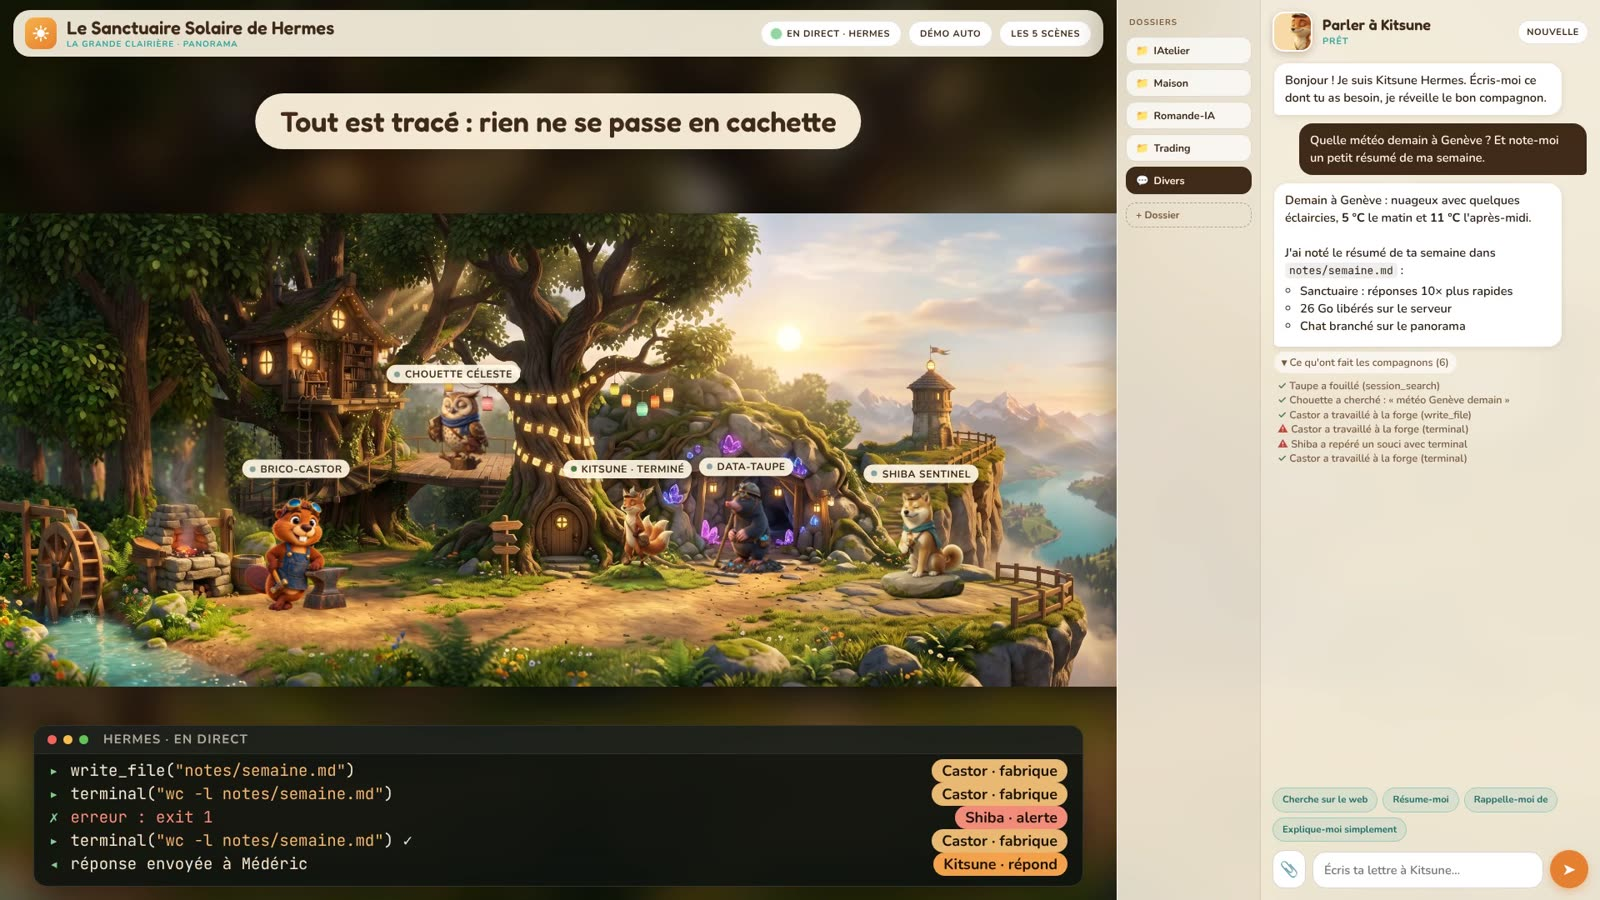
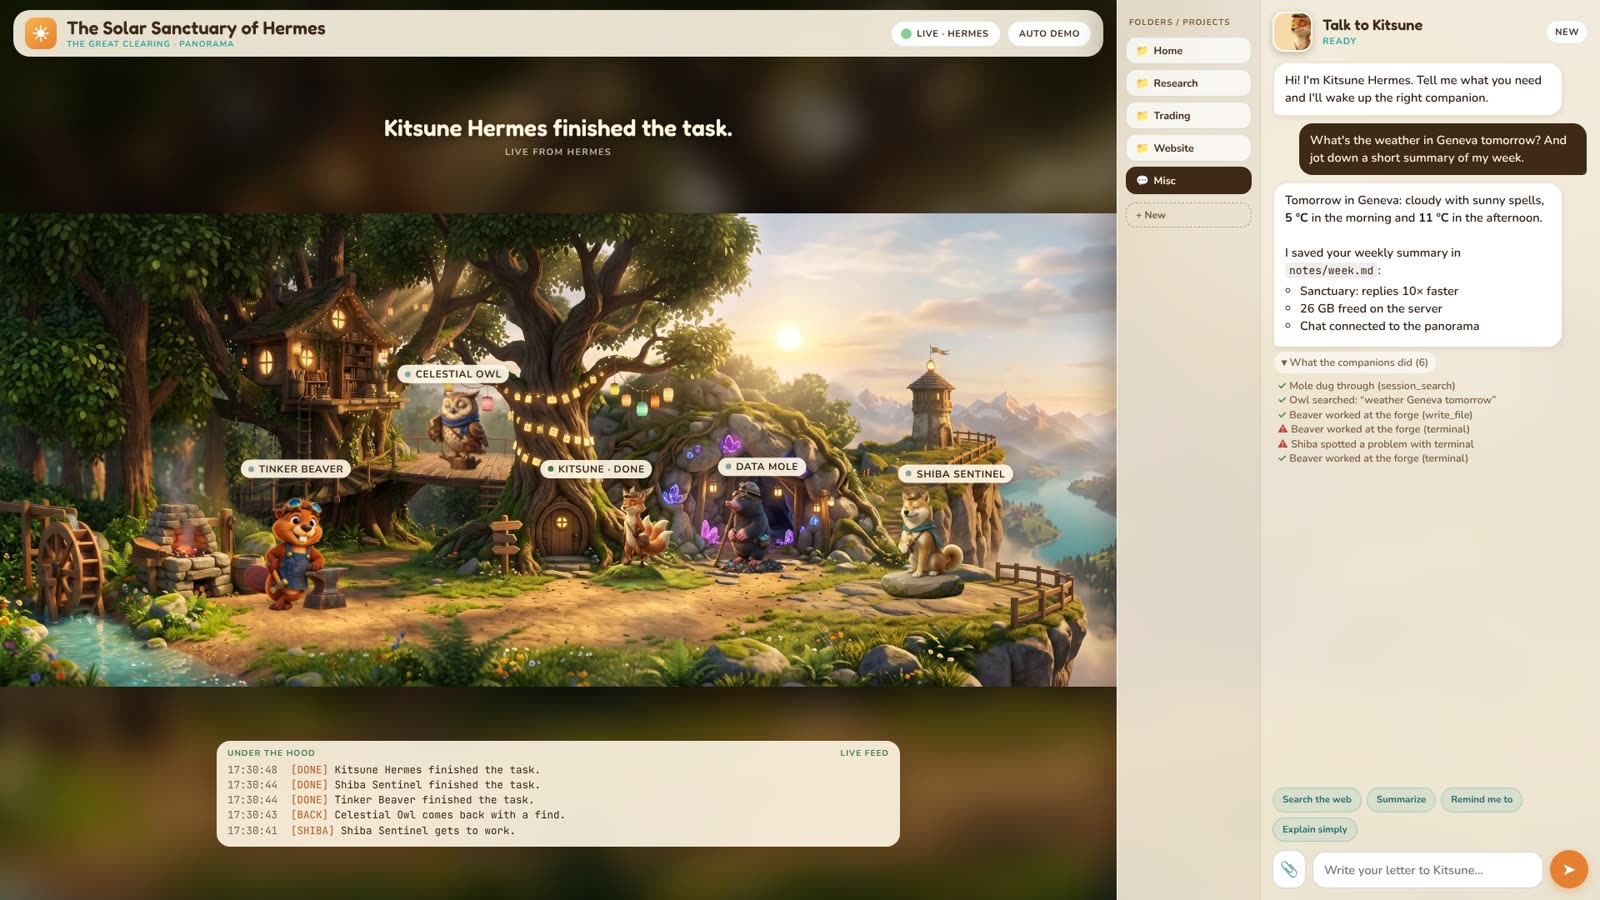
README : demo et capture en anglais en tete (vraie interface), versions francaises dans la section francaise, noms anglais des compagnons, liens vers les Discussions
Claude-Session: https://claude.ai/code/session_01PtRkwG22Bjpf1LVSmdC2Pq

diff --git a/README.md b/README.md
@@ -1,10 +1,10 @@
-# ☀ Le Sanctuaire Solaire
+# ☀ Le Sanctuaire Solaire · The Solar Sanctuary
 
 **A living, playful interface for [Hermes Agent](https://github.com/NousResearch/hermes-agent).**
 Every tool your agent uses wakes up a companion, and you chat with it right next to the scene.
 **Une interface vivante et ludique pour Hermes Agent** : chaque outil utilisé par ton agent réveille un compagnon, et tu discutes avec lui juste à côté.
 
-![Le Sanctuaire Solaire — démo](docs/demo.gif)
+![The Solar Sanctuary — demo](docs/demo.gif)
 
 > 🇫🇷 Projet personnel de [Médéric Morin](https://iatelier.ch), construit en *vibe coding* avec l'IA. Partagé pour recevoir **des avis, des idées et des améliorations**. ([Lire en français ↓](#-en-français))
 > 🇬🇧 Personal project, built by vibe coding with AI. Shared to get **feedback, ideas and improvements**.
@@ -18,12 +18,14 @@ Every tool your agent uses wakes up a companion, and you chat with it right next
 | Companion | Wakes up when Hermes uses… |
 |---|---|
 | 🦊 **Kitsune Hermes** (coordinator) | start/end of each turn, `send_message`, `delegate_task`, `clarify`, `cronjob` — he shouts and throws a paper plane to the right companion |
-| 🦉 **Chouette Céleste** (research) | `web_search`, `web_extract`, `vision_analyze`, `browser_*` — she flies away and comes back |
-| 🐹 **Data-Taupe** (analysis) | `read_file`, `search_files`, `memory`, `session_search`, `skill_view`, `todo` |
-| 🦫 **Brico-Castor** (building) | `write_file`, `patch`, `terminal`, `process`, `execute_code`, `skill_manage` |
+| 🦉 **Celestial Owl** (research) | `web_search`, `web_extract`, `vision_analyze`, `browser_*` — she flies away and comes back |
+| 🐹 **Data Mole** (analysis) | `read_file`, `search_files`, `memory`, `session_search`, `skill_view`, `todo` |
+| 🦫 **Tinker Beaver** (building) | `write_file`, `patch`, `terminal`, `process`, `execute_code`, `skill_manage` |
 | 🐕 **Shiba Sentinel** (safety) | slash commands, tool errors, API errors, approval requests — he barks |
 
-**English or French, automatically** (from your browser language; force it with `?lang=en` or `?lang=fr`).
+![The Solar Sanctuary — the real interface, in English](docs/panorama.jpg)
+
+**English or French, automatically** (from your browser language; force it with `?lang=en` or `?lang=fr`). In French, the companions are called Chouette Céleste, Data-Taupe and Brico-Castor.
 
 Plus a **chat panel**: Kitsune listens while you type, reads your letter, thinks, and every reply has a foldable *"what the companions did"* thread. Folders on the left (pinned Hermes conversations), images, shortcuts.
 
@@ -49,7 +51,7 @@ Then from your computer: `ssh -N -L 8787:127.0.0.1:8787 user@your-server` → op
 Details, manual install and troubleshooting: **[INSTALL.md](INSTALL.md)**.
 
 ### Ideas & contributions welcome 🙌
-This is the most interesting part for me. New environments and characters, better tool mappings, mobile, security, performance, support for other agents: **[open a discussion or an issue](../../issues/new/choose)**. See [CONTRIBUTING.md](CONTRIBUTING.md) and the [ROADMAP](ROADMAP.md).
+This is the most interesting part for me. New environments and characters, better tool mappings, mobile, security, performance, support for other agents: **[start a discussion](../../discussions)** or **[open an issue](../../issues/new/choose)**. See [CONTRIBUTING.md](CONTRIBUTING.md) and the [ROADMAP](ROADMAP.md).
 
 ---
 
@@ -62,6 +64,10 @@ Cinq compagnons dans une grande clairière, chacun lié à une famille d'outils 
 - 🐹 **la Taupe** fouille fichiers et mémoire ;
 - 🦫 **le Castor** écrit et exécute ;
 - 🐕 **le Shiba** veille et aboie au moindre souci.
+
+![Le Sanctuaire Solaire — démo](docs/demo-fr.gif)
+
+![Le Sanctuaire Solaire — la vraie interface, en français](docs/panorama-fr.jpg)
 
 **En français ou en anglais, automatiquement** selon la langue du navigateur (`?lang=fr` ou `?lang=en` pour forcer).
 
@@ -85,7 +91,7 @@ cd /opt/sanctuaire
 Tous les détails sont dans **[INSTALL.md](INSTALL.md)**. Pour créer ton propre environnement, voir [docs/ARCHITECTURE.md](docs/ARCHITECTURE.md#créer-un-nouvel-environnement).
 
 ### Ton avis et tes idées m'intéressent 🙌
-Que ce soit une critique, une idée, une optimisation ou un conseil de sécurité, **[ouvre une discussion ou une issue](../../issues/new/choose)**. Voir [CONTRIBUTING.md](CONTRIBUTING.md) et la [feuille de route](ROADMAP.md).
+Que ce soit une critique, une idée, une optimisation ou un conseil de sécurité, **[lance une discussion](../../discussions)** ou **[ouvre une issue](../../issues/new/choose)**. Voir [CONTRIBUTING.md](CONTRIBUTING.md) et la [feuille de route](ROADMAP.md).
 
 ---
 

diff --git a/CONTRIBUTING.md b/CONTRIBUTING.md
@@ -5,7 +5,7 @@
 ## 🇫🇷
 Merci de passer par ici ! Ce projet est partagé **justement pour recevoir des avis et des idées**.
 
-- **Une idée, un avis, une question ?** Ouvre une *issue* « Idée » (ou une discussion si elles sont activées). Une phrase suffit, même une critique.
+- **Une idée, un avis, une question ?** Lance une [discussion](../../discussions) ou ouvre une *issue* « Idée ». Une phrase suffit, même une critique.
 - **Un bug ?** Utilise une *issue* « Bug », en indiquant ta version de Hermes, ce que tu as fait, ce que tu as vu, et une capture si possible. **Ne colle jamais de clé API ni ton `.env`.**
 - **Du code ?** Ouvre d'abord une issue pour en parler, puis une *pull request* courte, centrée sur un seul sujet.
 - **Ce qui m'aiderait le plus** :
@@ -24,7 +24,7 @@ Règles du projet : aucun contenu de conversation dans l'état, tout en local pa
 ## 🇬🇧
 Thanks for stopping by! This project is shared **to get feedback and ideas**.
 
-- **Idea, opinion, question?** Open an "Idea" issue (or a discussion if enabled). One sentence is enough, criticism included.
+- **Idea, opinion, question?** Start a [discussion](../../discussions) or open an "Idea" issue. One sentence is enough, criticism included.
 - **Bug?** Open a "Bug" issue with your Hermes version, what you did and what you saw. **Never paste API keys or your `.env`.**
 - **Code?** Open an issue first, then a small, focused pull request.
 - **Most wanted**:

diff --git a/ROADMAP.md b/ROADMAP.md
@@ -24,4 +24,4 @@
 - Autres agents que Hermes. / Agents other than Hermes.
 - Sons d'ambiance, mode nuit, statistiques de la journée. / Ambient sounds, night mode, daily stats.
 
-👉 [Proposer une idée · Suggest an idea](../../issues/new/choose)
+👉 [Discussions](../../discussions) · [Proposer une idée · Suggest an idea](../../issues/new/choose)
